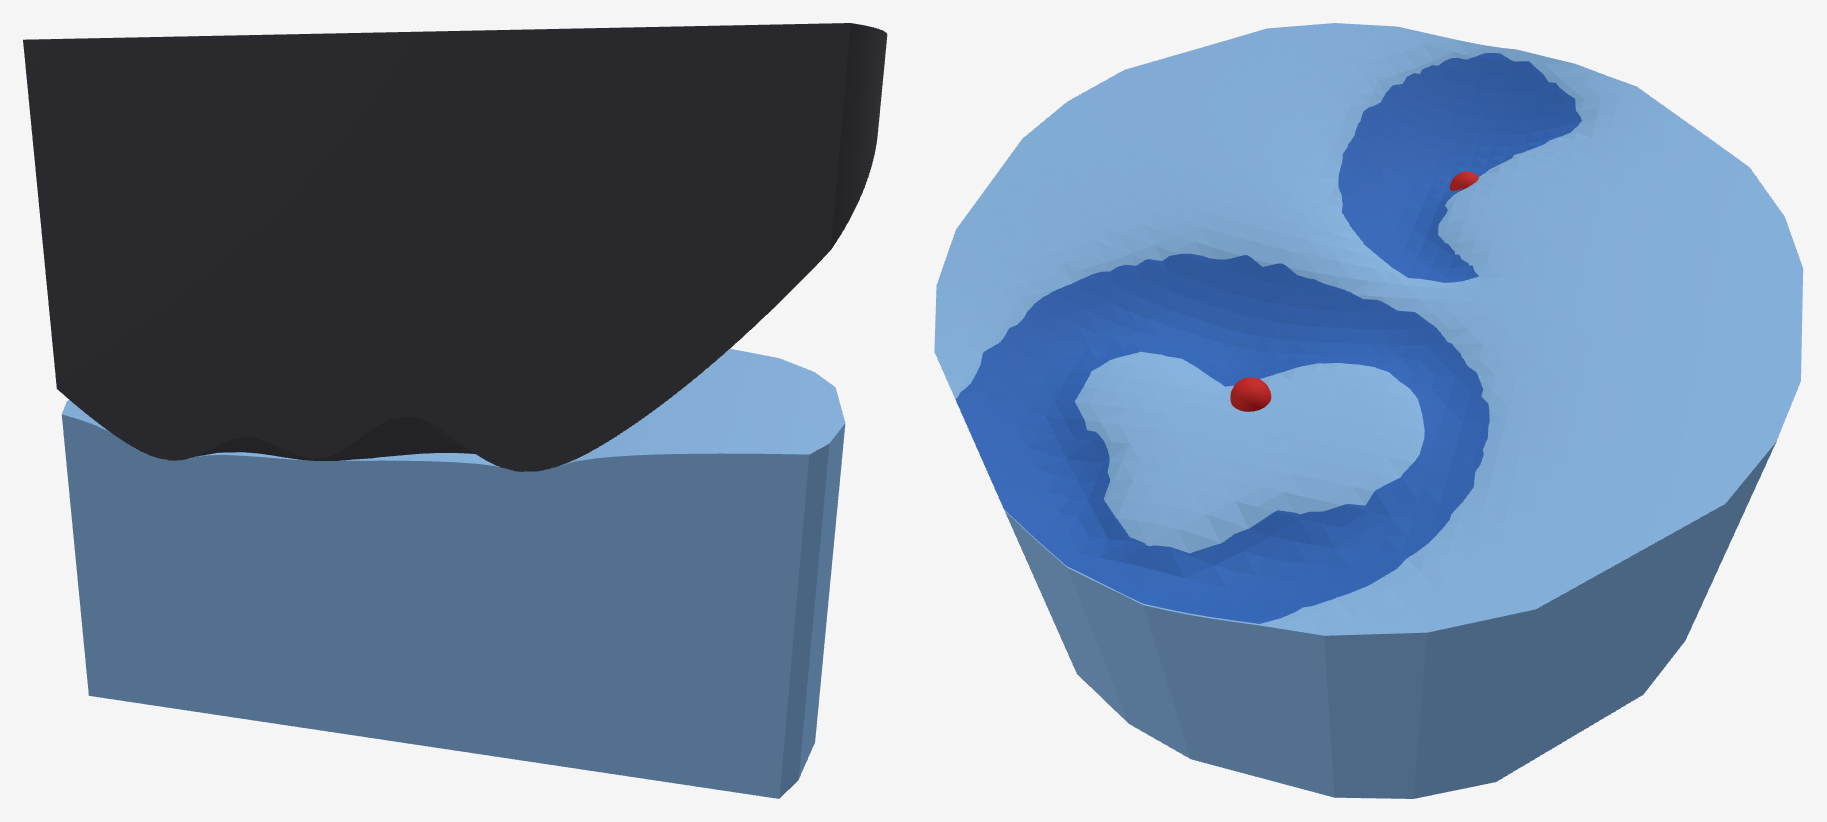
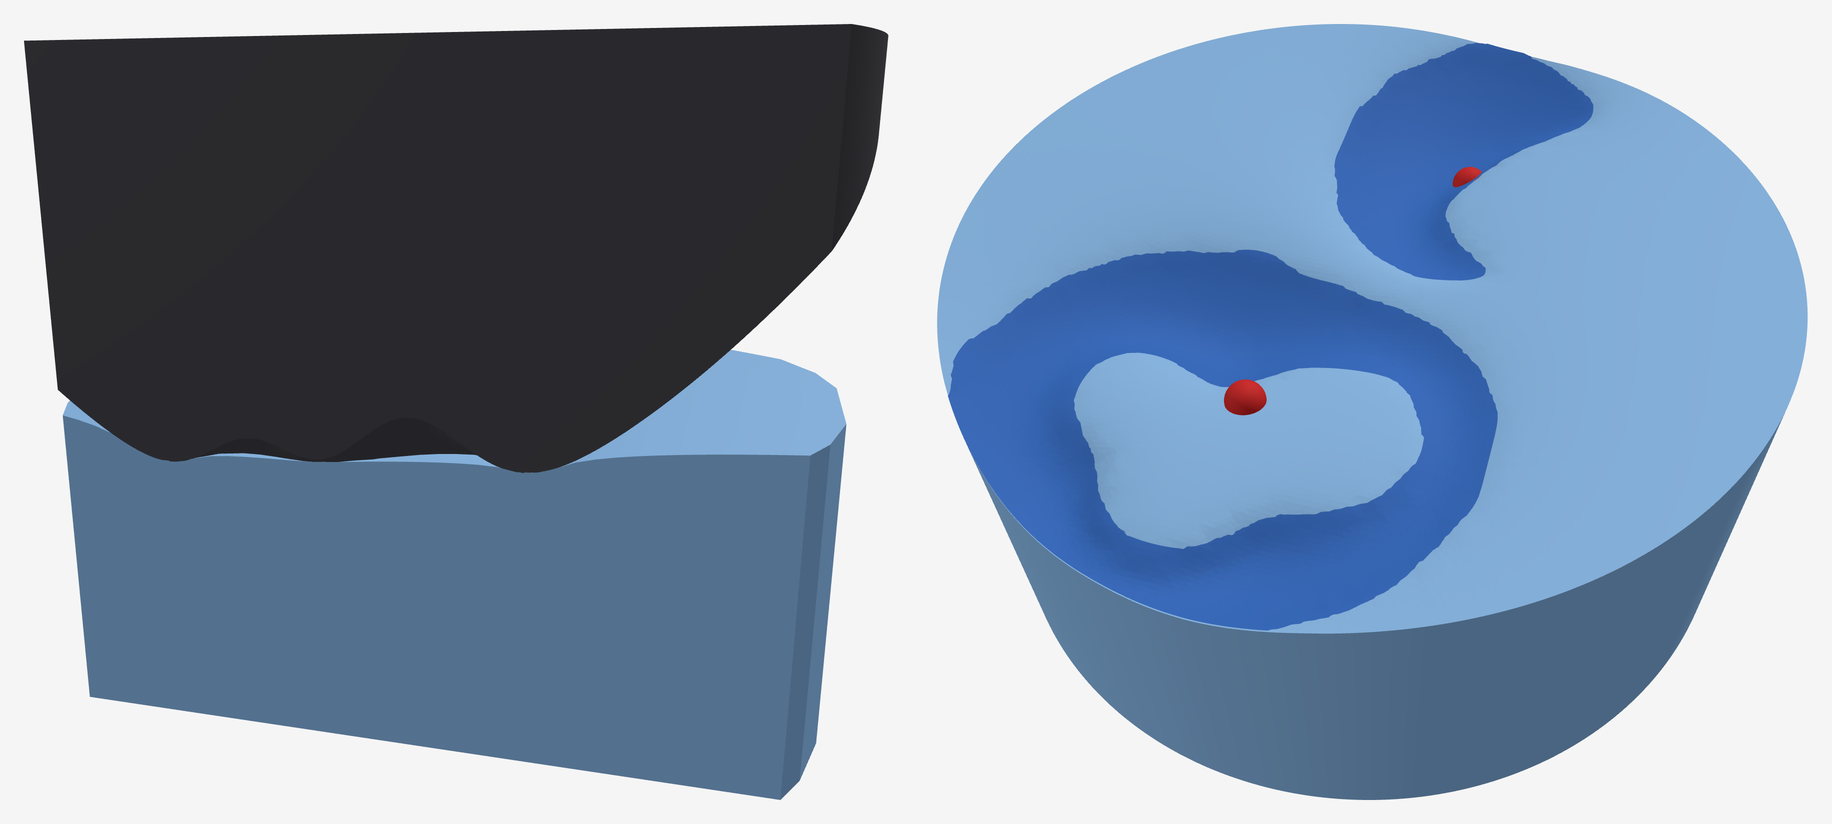
week2: smooth supersampled contact regions; fixed-end body no longer an exception for gravity term

diff --git a/week2.html b/week2.html
@@ -689,11 +689,11 @@ footer.foot { color: var(--muted); font-size: 0.8rem; border-top: 1px solid var(
 <ul>
 <li><strong>重力不进入 \(U_c\)</strong>：<ol>
 <li>重力势能 \(\sum_i m_i g\,y_i\) 对位置线性，代入定义后重力项之差为 \(g\sum_i m_i(\Psi w)_{y,i}\)</li>
-<li>条件：粗模型含整体平移自由度（刚体、仿射体等自由物体），且粗状态 \(z\) 取全网格位置按节点质量加权的拟合。此时质心平移全部归入 \(\Phi z\)，局部修正不移动质心：\(\sum_i m_i(\Psi w)_i=0\)</li>
+<li>条件：粗模型含整体平移自由度（刚体、仿射体等），且粗状态 \(z\) 取全网格位置按节点质量加权的拟合。此时质心平移全部归入 \(\Phi z\)，局部修正不移动质心：\(\sum_i m_i(\Psi w)_i=0\)</li>
 <li>所以重力项恒为 0，\(U_c\) 与 \(g\) 无关；重力由粗模型通过质心承担，标签可关闭重力生成</li>
 </ol>
 </li>
-<li><strong>底部固定的物体是例外</strong>：没有粗平移，第 2 步的条件不满足。接触压缩物体、质量下移，重力对这部分位移做功，该项随接触变化</li>
+<li><strong>底部固定的物体也不例外</strong>：真实物体一端固定，它的粗模型代理并不需要固定那一端。代理允许穿透，完整代表精细解里的仿射变化（包括压缩后质心的整体下移），只是不含局部变形。所以粗状态仍取精细解按节点质量加权的拟合，局部修正不移动质心，重力项同样为 0</li>
 <li><strong>\(U_c\) 与粗模型绑定</strong>：粗模型自身能表示的变形越多，剩给 \(U_c\) 的越少。刚体粗模型不存弹性能，全部变形能都在 \(U_c\) 中；仿射体粗模型可整体均匀压缩，这部分由粗模型自身承担。由上一条，重力项为 0，\(U_c\) 只剩弹性能之差：\(U_c^{\text{仿射}}=E_{\text{总}}-\psi(\bar{\mathbf F})V_0\)（\(E_{\text{总}}\)：精细解的总弹性能；\(\bar{\mathbf F}\)：全物体平均变形梯度，即变形后对变形前位置的导数的体积平均；\(\psi\)：单位体积弹性能；\(V_0\)：体积）。为刚体训练的 \(U_c\) 直接用于仿射体，会把整体压缩能量重复计算</li>
 </ul>
 <h3>3.2 训练数据</h3>
@@ -764,7 +764,7 @@ footer.foot { color: var(--muted); font-size: 0.8rem; border-top: 1px solid var(
 <p>\(U\) 为标签</p>
 </li>
 </ol>
-<figure style="margin:12px 0"><img src="assets/images/nipc_scene_K1.png" style="width:936px;max-width:100%;height:auto" alt="nipc_scene_K1"></figure>
+<figure style="margin:12px 0"><img src="assets/images/nipc_scene_K1.png" style="width:934px;max-width:100%;height:auto" alt="nipc_scene_K1"></figure>
 <p><em>这张图是下面第 1 组训练样本的场景：一个下表面带 1 个凸起的刚性压头（深灰）压在弹性半空间（浅蓝）上。几何按原代码的生成器重建，和这组样本完全相同，竖直方向放大 4 倍。左幅沿样本图里的白色虚线（过凸起中心）剖开，只留后一半，斜着看剖面：凸起往下压进半空间，半空间表面被压出一个坑贴住它；压头往外越来越高，只画到原表面以上 0.03。右幅把压头拿开，从斜上方看整片半空间：深蓝是精细解里压强大于 0 的接触区，红点是凸起中心（最低点）。这一组的接触区是围着凸起中心的一圈，中心那一小块没有接触，因为凸起上的凹坑让那里的压头表面抬高了，和样本图里凸起中心的暗斑是同一回事。</em></p>
 <figure style="margin:12px 0"><img src="assets/images/nipc_training_samples_K1.png" style="width:875px;max-width:100%;height:auto" alt="nipc_training_samples_K1"></figure>
 <p><em>这张图展示一个训练样本由什么组成：输入是粗状态下的穿透，标签是精细解的弹性能。这是第 1 组，压头下表面有 1 个凸起（红色「+」是凸起中心（最低点），对应上面场景图里的红点），压到最深穿透 0.012，半空间 \(E^*=1\)。左格是粗状态：压头和半空间都不变形，压头直接穿进去，颜色是每点的穿透深度（0 到 0.012）；凸起中心的暗斑是凸起上的凹坑让压头表面抬高了，那里没有穿透。右格是 BEM 精细解：半空间表面被压下、贴住压头，颜色是表面下沉量，白线围出压强大于 0 的接触区。两格对比可以看到，精细解里接触区外的表面也被带着下沉，整片圆盘都有颜色，而粗状态只有穿透处有颜色。每格下方是沿白色虚线（过最深凸起的中心）的截面，竖直方向放大：蓝色是半空间，灰色是刚性压头，红色是穿透部分。粗状态截面里红色就是两者重叠；精细解截面里没有红色，半空间表面弯下去贴着压头（最大残余穿透约 \(10^{-17}\)）。标题里的 \(U=6.72\times10^{-6}\) 是精细解的弹性能，也就是网络要学的标签。</em></p>
@@ -772,7 +772,7 @@ footer.foot { color: var(--muted); font-size: 0.8rem; border-top: 1px solid var(
 <p><em>第 2 组的场景，画法同上：压头下表面有 2 个凸起。左幅剖面过较深的那个凸起，可以看到压头底面起伏，有几处同时压在半空间上。右幅两块深蓝接触区各围着一个红点：靠近中间的凸起接触区是一圈，中心同样因凹坑没有接触；远处的凸起接触区是一块弯月形。</em></p>
 <figure style="margin:12px 0"><img src="assets/images/nipc_training_samples_K2.png" style="width:875px;max-width:100%;height:auto" alt="nipc_training_samples_K2"></figure>
 <p><em>第 2 组样本，画法同第 1 组：左格两个凸起处各有一片穿透，右格白线围出两块接触区，形状与上面场景图的深蓝色块一致。标签 \(U=9.73\times10^{-6}\)。</em></p>
-<figure style="margin:12px 0"><img src="assets/images/nipc_scene_K3.png" style="width:934px;max-width:100%;height:auto" alt="nipc_scene_K3"></figure>
+<figure style="margin:12px 0"><img src="assets/images/nipc_scene_K3.png" style="width:931px;max-width:100%;height:auto" alt="nipc_scene_K3"></figure>
 <p><em>第 3 组的场景，画法同上：压头下表面有 3 个凸起，左幅剖面里压头底面有几处凸起同时压进半空间。右幅三个红点各带一块深蓝接触区，三块互不相连，每块都偏在凸起中心的一侧，说明凸起上的凹坑和压头的倾斜决定了实际接触落在哪里。</em></p>
 <figure style="margin:12px 0"><img src="assets/images/nipc_training_samples_K3.png" style="width:875px;max-width:100%;height:auto" alt="nipc_training_samples_K3"></figure>
 <p><em>第 3 组样本，画法同第 1 组：左格三个凸起处各有一片穿透，右格白线围出三块互不相连的接触区，与上面场景图的深蓝色块一致。标签 \(U=1.00\times10^{-5}\)。三组压深相同，这三组里接触区越多，标签能量越大。</em></p>
@@ -1083,7 +1083,7 @@ footer.foot { color: var(--muted); font-size: 0.8rem; border-top: 1px solid var(
 <p>\[U_{\text{Hertz}}=\frac{8}{15}E^{*}R^{1/2}\delta^{5/2},\qquad E^{*}=\frac{E}{1-\nu^{2}}=\frac{10^5}{1-0.09}\approx1.099\times10^5\]</p>
 <figure style="margin:12px 0"><video controls muted playsinline preload="metadata" src="assets/videos/e0_press.mp4" style="width:1008px;max-width:100%;height:auto"></video></figure>
 <p><em>这段视频是造标签的仿真本身：IPC + FEM 把刚球（\(R=1\)）一档一档压进块里，块顶面在接触区内贴住球面。共 6 个压深，每个停 1.5 秒，第 0、1.5、3、4.5、6、7.5 秒依次是 \(\delta=\) 0.004、0.006、0.009、0.013、0.018、0.024，标题给出当前压深和球与块的最小间隙。左图是过球心的竖直截面，竖直方向放大：红点是球面，带点的蓝线是变形后的块顶面，灰色虚线是块顶面原来的位置。接触区内蓝线紧贴红点；接触区外蓝线也低于虚线，但与红点分开，和 1.4 节 Hertz 示意图的形状一致。右图从上往下看块顶面，颜色是竖直位移（0 到 −0.025），中心最深，向外逐渐变浅。标题里的最小间隙在 \(0.90\text{–}0.98\times10^{-4}\) 之间，小于这次仿真的 \(\hat d=1.25\times10^{-4}\)：IPC 在两表面距离小于 \(\hat d\) 时才把它们推开，所以球和块之间始终留着一层比 \(\hat d\) 还薄的缝，这层缝让标签偏离 Hertz，下图就是看这个偏离有多大。</em></p>
-<figure style="margin:12px 0"><img src="assets/images/e0_scene_L1.2.png" style="width:681px;max-width:100%;height:auto" alt="e0_scene_L1.2"></figure>
+<figure style="margin:12px 0"><img src="assets/images/e0_scene_L1.2.png" style="width:682px;max-width:100%;height:auto" alt="e0_scene_L1.2"></figure>
 <p><em>这张图是下面收敛曲线那批仿真的场景：深灰色刚球（\(R=1\)）压蓝色弹性块，块宽 2.4、深 1.2，底面固定。几何取自这批配置重跑时存下的顶点，画的是最深压深 0.024 那一帧。左幅是整体，按真实比例：压深只有球半径的 2.4%，这样看不出凹陷。右幅是接触区特写：过球心竖直剖开，只取球心附近宽 0.6 的一块，竖直方向放大 5 倍。块顶面在球底下被压出一个坑，球正好坐在坑里，坑的边缘在球面和原表面之间缓缓抬起，和 1.4 节 Hertz 示意图是同一个形状。</em></p>
 <figure style="margin:12px 0"><img src="assets/images/e0_label_convergence.png" style="width:644px;max-width:100%;height:auto" alt="e0_label_convergence"></figure>
 <p><em>这张图说明标签为什么要外推、往哪里外推：IPC 的接触距离 \(\hat d\) 越小，标签能量越接近 Hertz 解。纵轴是标签能量除以 Hertz 能量，黑色横线 1 表示和解析解完全一致；横轴是 \(\hat d\)（两表面距离小于它时 IPC 开始把它们推开），每档是上一档的 2 倍，从 6.25e-5 到 1e-3。颜色从浅到深是接触区网格从粗到细（\(h_c=\) 0.025、0.0125、0.00625），实线是最浅压深 0.004，虚线是最深压深 0.024。所有曲线都在 1 以上，并且越往右（\(\hat d\) 越大）越高：\(\hat d=10^{-3}\) 时浅压深的比值到 1.8–1.9，深压深约 1.3。浅压深上升得更陡，因为压深越浅，\(\hat d\) 这层缝相对压深越厚。往左到 \(\hat d=6.25\times10^{-5}\)（只有 \(h_c=0.0125\) 一档跑到这么小），比值降到 1.15–1.20。这些都是外推前的原始数据，块半宽只有 1.2；把 \(\hat d\)、网格、块大小三项都外推到极限后的比值见下面的结果。</em></p>
